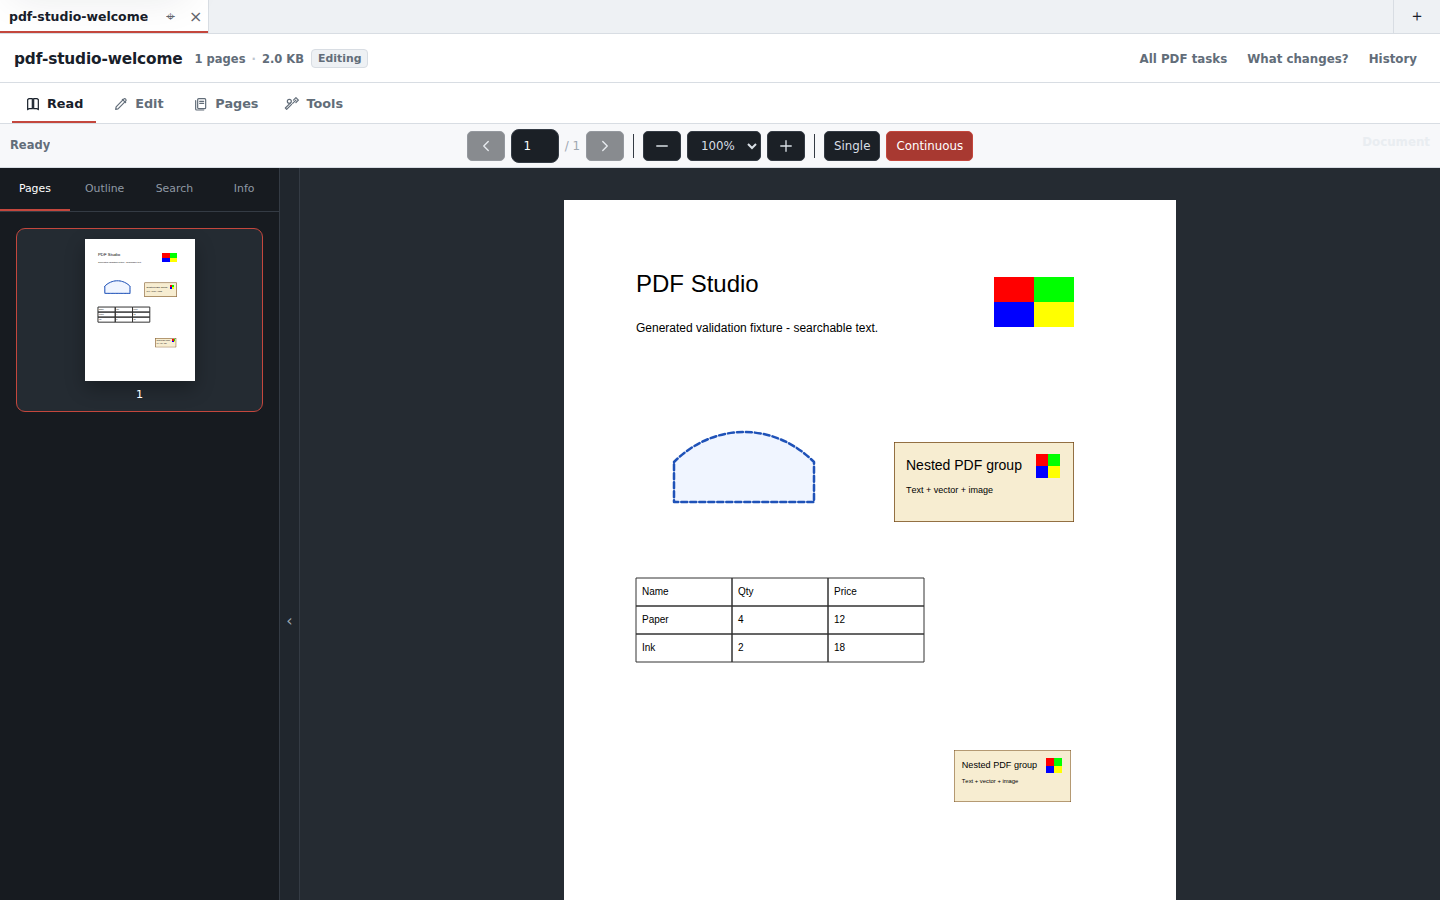
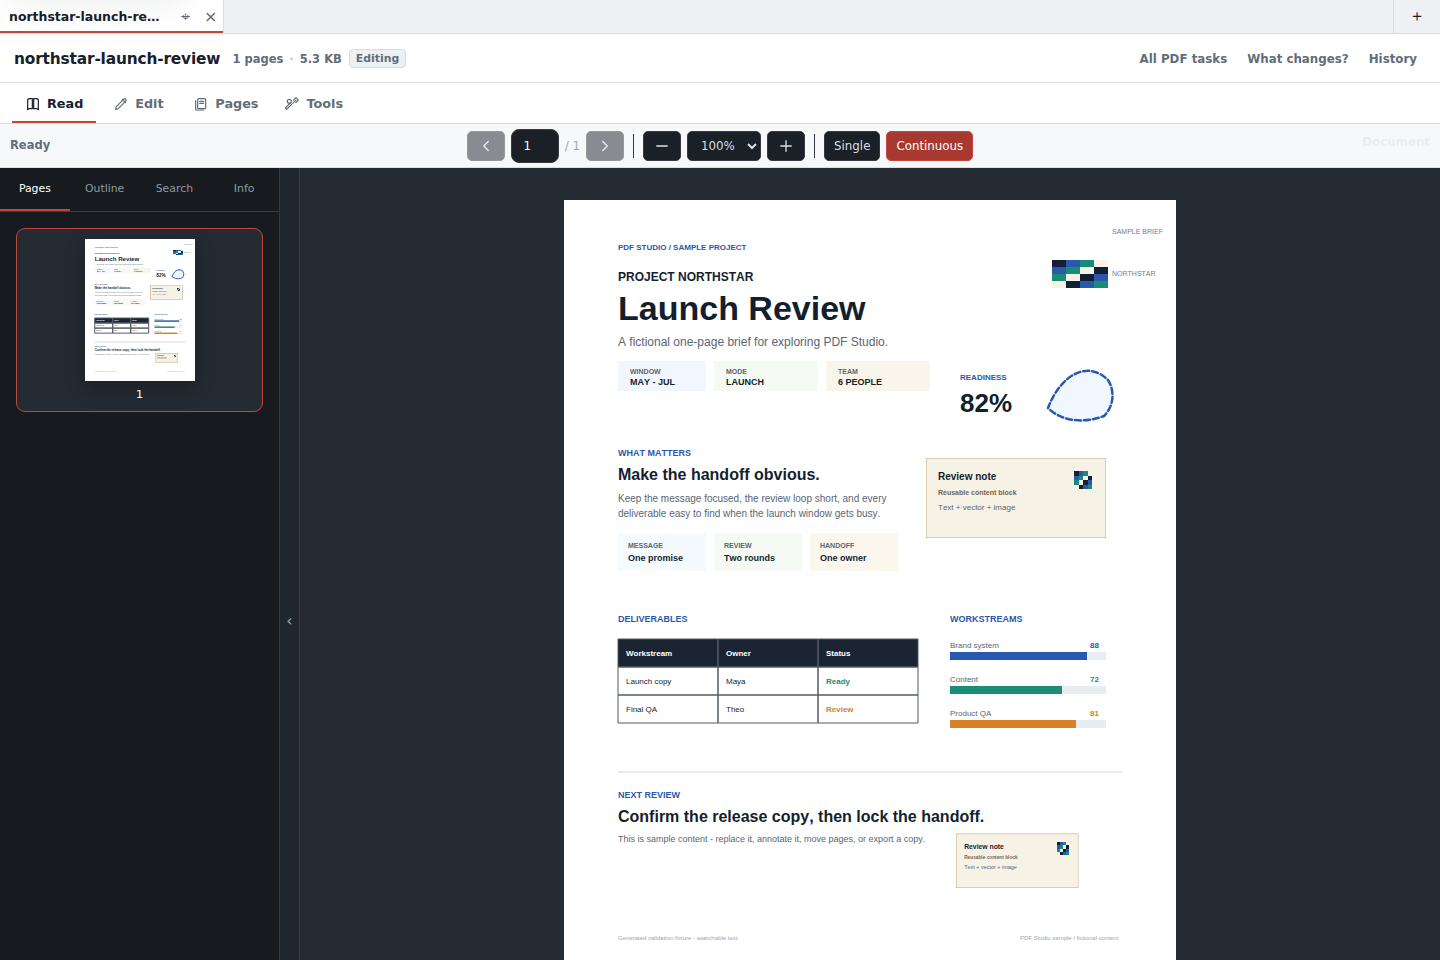
Showcase PDF Studio with Project Northstar
* test: wait for polished PDF Studio sample and recapture real showcase

* fix: capture Northstar through the production PDF text layer

* feat: showcase PDF Studio with the polished Northstar sample

---------

diff --git a/src/content/projects/pdf-studio.md b/src/content/projects/pdf-studio.md
@@ -66,7 +66,7 @@ gallery:
   variant: home
   source: /projects/pdf-studio/screenshot-desktop.png
 - label: Open document
-  caption: A real sample PDF opened inside the editing workspace with pages, tools, zoom, and document canvas visible.
+  caption: Project Northstar, the real built-in sample, opened inside the workspace with pages, tools, zoom, and document canvas visible.
   variant: workspace
   source: /projects/pdf-studio/screenshot-workspace.png
 - label: Page organizer
